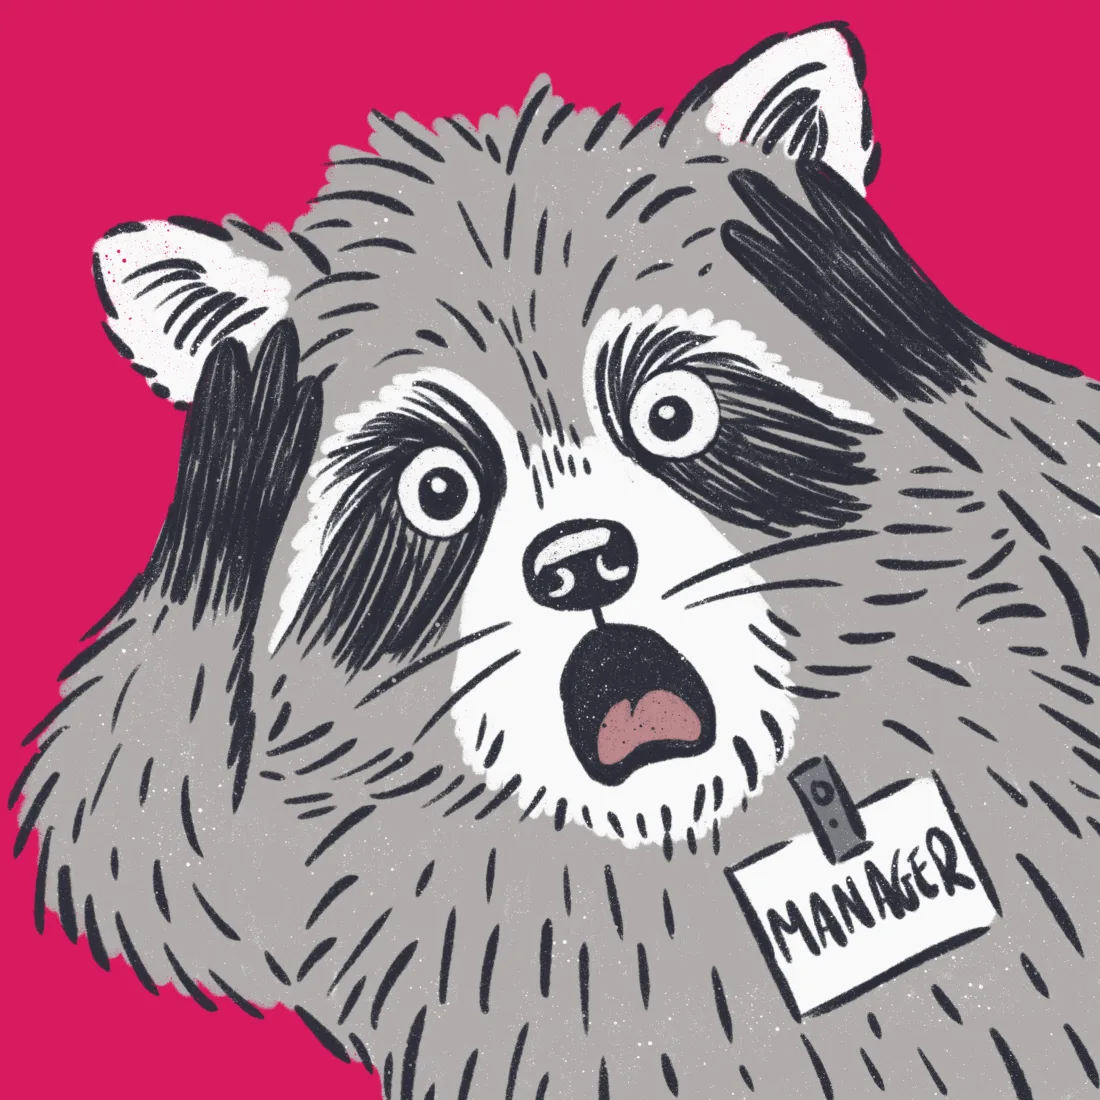
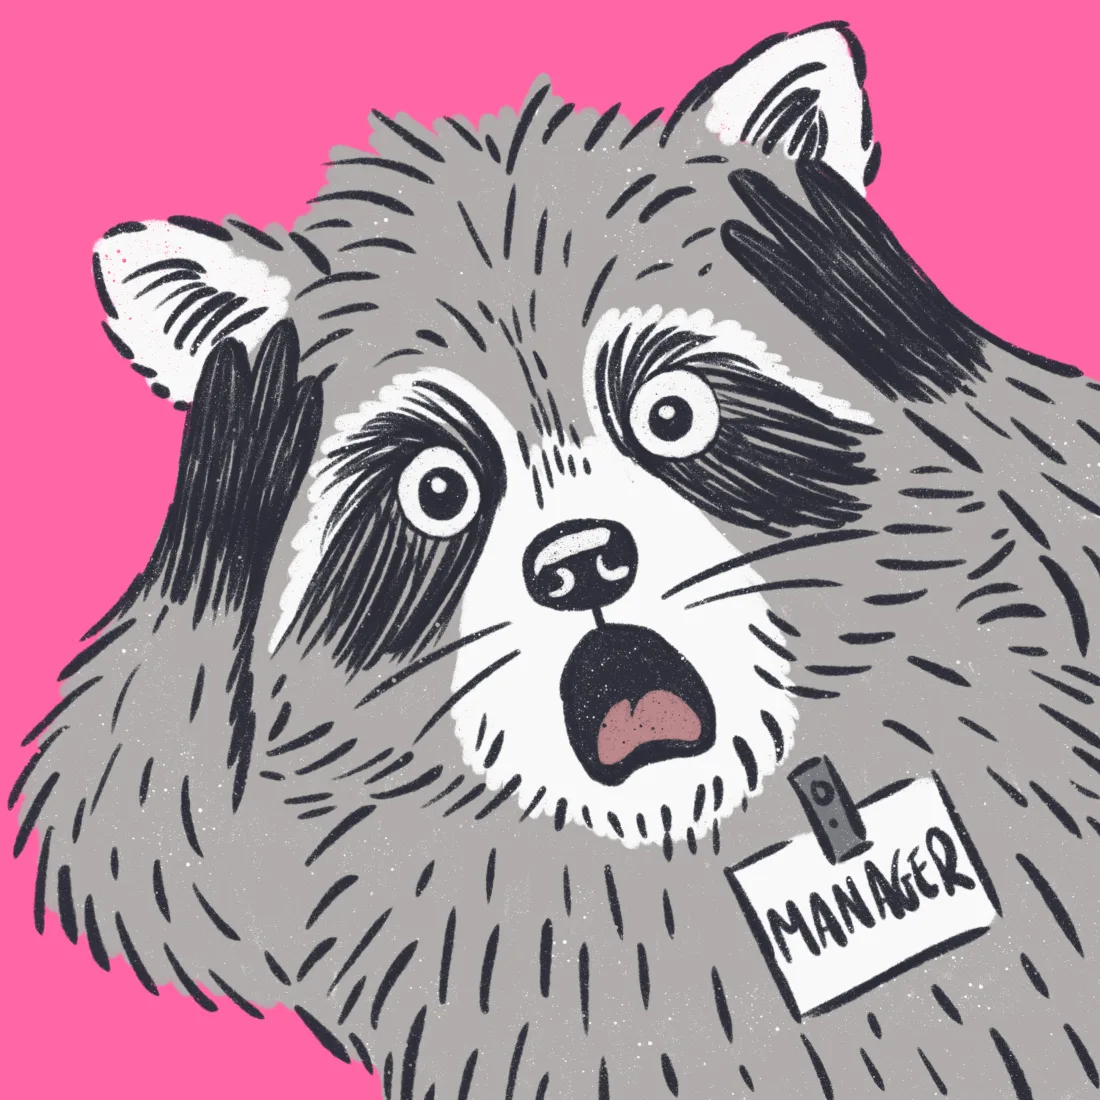
wip

Changed region(s): [[0.0, 0.0, 1.0, 1.0]]

diff --git a/_sass/poster.scss b/_sass/poster.scss
@@ -409,6 +409,191 @@ body.poster-home {
   }
 }
 
+// ─── THE WEEDS (headline, three pinned maybes, whoami callout + stamp) ───────
+.weeds {
+  width: min(calc(100% - (2 * #{$gutter})), #{$wide});
+  margin: 3rem auto 0;
+
+  &__title {
+    margin: 0;
+    max-width: 17ch;
+    font: 700 clamp(2.5rem, 7vw, 5.6rem)/0.98 $font-display;
+    font-variation-settings: 'opsz' 144;
+    letter-spacing: -0.07em;
+    text-wrap: balance;
+    color: $ink;
+    padding: 0;
+    &::after { display: none; }
+
+    mark {
+      display: inline-block;
+      background: $magenta;
+      color: $cream;
+      font-style: italic;
+      font-weight: 500;
+      letter-spacing: -0.05em;
+      padding: 0 0.12em 0.04em 0.06em;
+      transform: rotate(-2deg);
+      box-shadow: 7px 7px 0 $ink;
+    }
+  }
+
+  &__whisper {
+    margin: 1.4rem 0 0 clamp(0rem, 12vw, 12rem);
+    max-width: 30ch;
+    font: italic 400 clamp(1.4rem, 2.6vw, 2.1rem)/1.15 $font-display;
+    letter-spacing: -0.03em;
+    color: $magenta;
+  }
+}
+
+// three different card types, pinned like a collage, not a row of clones
+.maybes {
+  list-style: none;
+  margin: 3.2rem 0 0;
+  padding: 0;
+  display: grid;
+  gap: 2.2rem;
+
+  @include respond-to('large') {
+    grid-template-columns: repeat(3, minmax(0, 1fr));
+    gap: 2.6rem;
+    align-items: start;
+  }
+}
+
+.maybe {
+  position: relative;
+  margin: 0;
+  font: 400 clamp(1.15rem, 1.6vw, 1.3rem)/1.5 $font-secondary;
+
+  &__tag {
+    display: block;
+    margin-bottom: 0.3rem;
+    font-family: $font-primary;
+    font-weight: 800;
+    font-variation-settings: 'wdth' 75;
+    font-size: clamp(2.6rem, 4vw, 3.4rem);
+    line-height: 0.9;
+    letter-spacing: -0.01em;
+    text-transform: uppercase;
+  }
+
+  em { font-style: italic; color: $magenta; }
+
+  // cream paper slip, pink shadow
+  &--slip {
+    background: $ink;
+    color: $cream;
+    padding: 1.4rem 1.5rem 1.6rem;
+    box-shadow: 10px 10px 0 $magenta;
+    transform: rotate(-2.5deg);
+    margin-right: 8%;
+    em { color: $cream; }
+  }
+
+  // outlined box, pink shadow, opposite tilt
+  &--box {
+    border: 3px solid $ink;
+    padding: 1.3rem 1.4rem 1.5rem;
+    box-shadow: 10px 10px 0 $magenta;
+    transform: rotate(2deg);
+    margin-left: 8%;
+
+    .maybe__tag {
+      color: $cream;
+      -webkit-text-stroke: 2px $ink;
+      paint-order: stroke fill;
+    }
+    em {
+      background: linear-gradient($magenta, $magenta) 0 88% / 100% 0.32em no-repeat;
+      color: inherit;
+    }
+  }
+
+  // pull-quote with a pink rule, no box
+  &--rule {
+    border-left: 8px solid $magenta;
+    padding: 0.4rem 0 0.4rem 1.3rem;
+    margin-right: 6%;
+    font: italic 400 clamp(1.35rem, 2vw, 1.6rem)/1.3 $font-display;
+    letter-spacing: -0.02em;
+    .maybe__tag { color: $magenta; font-style: normal; }
+  }
+
+  @include respond-to('medium') {
+    max-width: 34rem;
+    &--box { margin-left: auto; margin-right: 6%; }
+    &--rule { margin-left: 10%; }
+  }
+
+  @include respond-to('large') {
+    max-width: none;
+    &--slip, &--box, &--rule { margin-left: 0; margin-right: 0; }
+    &--box  { margin-top: 2.4rem; }
+    &--rule { margin-top: 0.8rem; }
+  }
+}
+
+// CV-style ruled callout with a pink tab, plus a stamp slammed on the corner
+.whoami {
+  position: relative;
+  margin: 4.5rem 0 1rem auto;
+  max-width: 40rem;
+  padding: 1.6rem 1.8rem 2.2rem 2.4rem;
+  border: 1.5px solid $ink;
+  box-shadow: 10px 10px 0 $magenta;
+  transform: rotate(-1.5deg);
+
+  &::before {
+    content: '';
+    position: absolute;
+    left: -1.5px;
+    top: -1.5px;
+    bottom: -1.5px;
+    width: 0.7rem;
+    background: $magenta;
+  }
+
+  @include respond-to('medium') { margin-right: 6%; }
+
+  p { margin: 0; font-size: 1.15rem; line-height: 1.7; }
+
+  &__label {
+    margin-bottom: 0.6rem !important;
+    font: 700 0.85rem/1.3 $mono !important;
+    letter-spacing: 0.14em;
+    text-transform: uppercase;
+    color: $magenta;
+  }
+
+  &__stamp {
+    position: absolute;
+    right: -0.8rem;
+    bottom: -2.4rem;
+    padding: 0.35rem 0.8rem 0.45rem;
+    border: 3px solid $magenta;
+    outline: 2px solid $magenta;
+    outline-offset: 3px;
+    background: $cream;
+    color: $magenta;
+    font-family: $font-primary !important;
+    font-weight: 800;
+    font-variation-settings: 'wdth' 75;
+    font-size: clamp(1.5rem, 3vw, 2.1rem) !important;
+    line-height: 1 !important;
+    text-transform: uppercase;
+    transform: rotate(-5deg);
+
+    small {
+      display: block;
+      font: 700 0.7rem/1.4 $mono;
+      letter-spacing: 0.16em;
+      text-align: right;
+    }
+  }
+}
+
 // ─── THE SLASH (pull-quote band, bleeds off both edges) ───────────────────────
 .slash {
   width: 118%;
@@ -545,7 +730,7 @@ body.poster-home {
       z-index: 2;
       width: 7rem;
       height: 2rem;
-      background: rgba($magenta, 0.92);
+      background: rgba($ink, 0.9);           // cream tape: the art is pink now
       clip-path: polygon(0 10%, 4% 0, 8% 12%, 96% 0, 100% 90%, 94% 100%, 4% 88%);
     }
     &::before { top: -0.9rem; left: -2.2rem; transform: rotate(-34deg); }

diff --git a/pages/index.html b/pages/index.html
@@ -65,11 +65,18 @@ description: Coaching for engineering managers and folks in tech from a VP Engin
 
 <blockquote class="proof"><p>"By September I'd been promoted to Director of Engineering, much faster than I'd expected."</p><footer>— Teri Drummond, VP Engineering @ Speechmatics</footer></blockquote>
 
-<section class="intro intro--solo">
-  <div class="intro__text">
-    <p class="intro__lead">You're in the weeds, out of your depth, or at a crossroads, and you can't really say that out loud to anyone at work.</p>
-    <p>Maybe you just got promoted and the people stuff is keeping you up at night. Maybe you're good at your job and still getting treated like a maybe. Maybe nothing's on fire, you just want more than this and don't know what the hell to do.</p>
-    <p>I'm Valerie Dryden, a practicing VP Engineering and Executive Coach. Nearly two decades in tech, from hands-on engineering all the way up to exec, in every brand of chaos from tiny startup to Series G unicorn. I've seen some shit, I tell you.</p>
+<section class="weeds" aria-labelledby="weeds-title">
+  <h2 id="weeds-title" class="weeds__title">You're in the weeds, out of your depth, or <mark>at a crossroads</mark></h2>
+  <p class="weeds__whisper">and you can't really say that out loud to anyone at work.</p>
+  <ul class="maybes">
+    <li class="maybe maybe--slip"><span class="maybe__tag">Maybe</span> you just got promoted and the people stuff is keeping you up at night.</li>
+    <li class="maybe maybe--box"><span class="maybe__tag">Maybe</span> you're good at your job and still getting treated like a <em>maybe</em>.</li>
+    <li class="maybe maybe--rule"><span class="maybe__tag">Maybe</span> nothing's on fire, you just want more than this and don't know what the hell to do.</li>
+  </ul>
+  <div class="whoami">
+    <p class="whoami__label">Hi. I'm Valerie Dryden.</p>
+    <p>A practising VP Engineering and Executive Coach. Nearly two decades in tech, from hands-on engineering all the way up to exec, in every brand of chaos from tiny startup to Series G unicorn.</p>
+    <p class="whoami__stamp">I've seen some shit, <small>I tell you.</small></p>
   </div>
 </section>
 

diff --git a/_layouts/default.html b/_layouts/default.html
@@ -3,7 +3,9 @@
   <head>
     <meta name="viewport" content="width=device-width, initial-scale=1">
     <meta charset="utf-8">
-    <link href='/favicon.ico' rel='icon' />
+    <link rel="icon" href="/favicon.ico" sizes="any">
+    <link rel="icon" type="image/png" sizes="32x32" href="/assets/images/site/favicon-32.png">
+    <link rel="apple-touch-icon" href="/assets/images/site/apple-touch-icon.png">
     {% seo %}
     <script type="application/ld+json">
     {
@@ -125,7 +127,6 @@
     </script>
     <link rel="stylesheet" href='/assets/css/normalize.css'>
     <link rel="stylesheet" href='/assets/css/code-syntax.css'>
-    <link rel="shortcut icon" type="image/png" href="/assets/images/site/favicon.ico">
     <link rel="stylesheet" href='/assets/css/styles.css'>
     <link rel="preconnect" href="https://fonts.googleapis.com">
     <link rel="preconnect" href="https://fonts.gstatic.com" crossorigin>

diff --git a/todo.md b/todo.md
@@ -9,3 +9,12 @@
   font perf work in 48d3b3d. Confirm in real device emulation before fixing.
 
 - Make a hero callout of Hugh's quote
+
+## Dark redesign follow-ups (Nov 2026)
+
+- Bring the other pages in line with the homepage (they still use the old heavy italic and riso leftovers). Use `/design`.
+- Top menu wraps onto two lines on phones (shared `_layouts/default.html`).
+- Course page (`pages/holy-shit-im-a-manager.md`) still uses the old four-raccoon `hsiam_logo.webp`. New art: `assets/images/site/hsiam-raccoon-{600,1100}.webp`.
+- Cutting "What I do" removed the only homepage mention of the Slack community. Maybe add it to the course description.
+- Site-wide already changed: body font is now Source Serif 4; all buttons have cream shadows. Check other pages still look right.
+- Copy idea for Val: "Email me →" instead of "Get in touch →", since the button opens an email.

diff --git a/.claude/claude.md b/.claude/claude.md
@@ -28,3 +28,6 @@ For legal review, drafting, or T&Cs questions use '/legal'.
 # Task tracking
 
 Tasks are tracked in `tasks.md` at the project root. Tick tasks off as you complete them. The file is gitignored, so it never goes into a commit.
+
+# Assets
+We're using ../cv, ../outragedpinkracoon.github.io, ../games/roots-and-roses/ A4 digital rulebook as our graphic design inspiration but the homepage on this special branch captures what we are going for.
